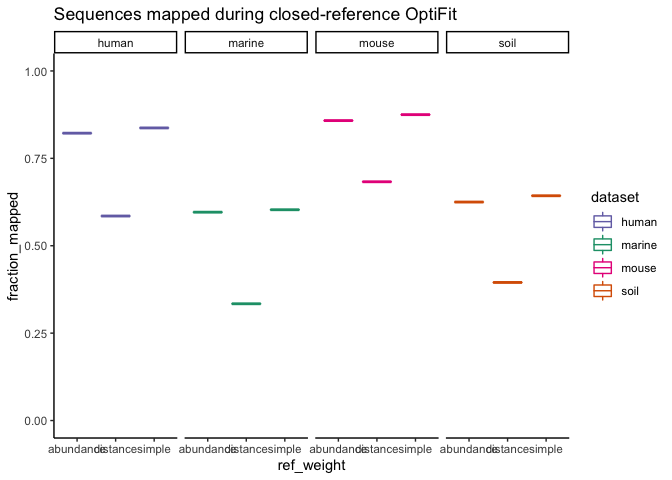
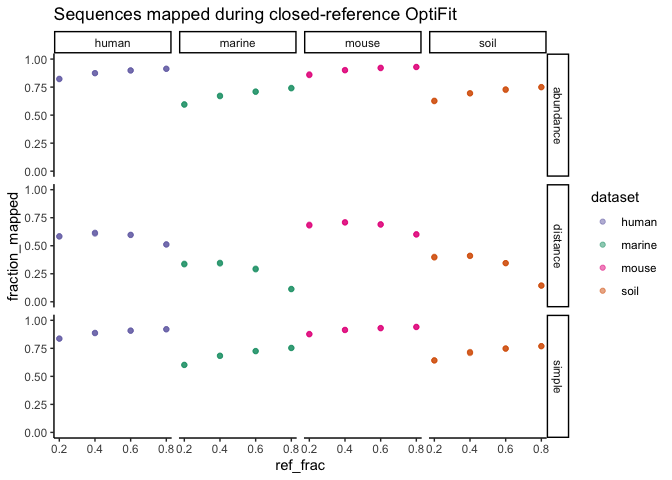
Update plots

diff --git a/exploratory/2020/sub3_fit_subsets.md b/exploratory/2020/sub3_fit_subsets.md
@@ -44,12 +44,13 @@ sample fraction = 0.2
 ``` r
 benchmarks_fit <-
   read_tsv(here('subworkflows/2_fit_reference_db/results/benchmarks.tsv'))
+# TODO: show number of unique seqs 
 benchmarks_fit %>% 
     group_by(dataset, method) %>%
     ggplot(aes(x = method, y = s, color = dataset)) +
     geom_boxplot() +
     scale_color_manual(values = dataset_colors) +
-    #facet_wrap("ref_weight") +
+    #facet_grid(ref_weight ~ .) +
     ylim(0,2100) +
     labs(y = 'seconds') +
     theme(axis.title.x = element_blank())
@@ -62,10 +63,10 @@ benchmarks_fit %>%
 ``` r
 fractions <- read_tsv(here('subworkflows/3_fit_sample_subset/results/fraction_reads_mapped.tsv'))
 fractions %>% 
-  ggplot(aes(x=ref_weight, y=fraction_mapped, color=dataset)) +
-  geom_boxplot(alpha = 0.5) +
+  ggplot(aes(x=ref_frac, y=fraction_mapped, color=dataset)) +
+  geom_point(alpha = 0.5) +
   scale_color_manual(values = dataset_colors) +
-  facet_wrap("dataset", nrow = 1) + 
+  facet_grid(ref_weight ~ dataset) +
   ylim(0, 1) +
   labs(title="Sequences mapped during closed-reference OptiFit")
 ```
